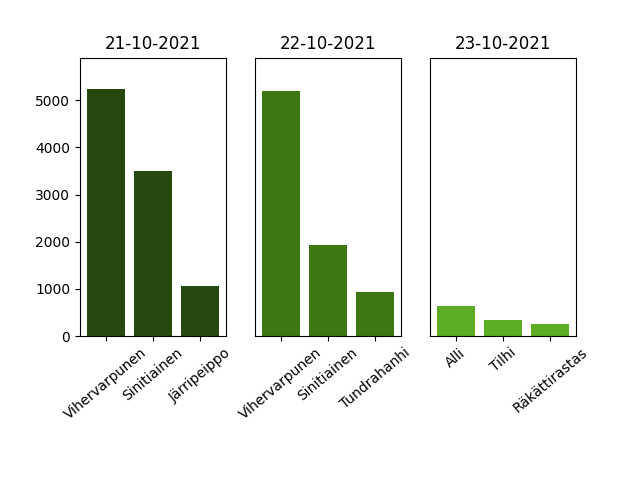
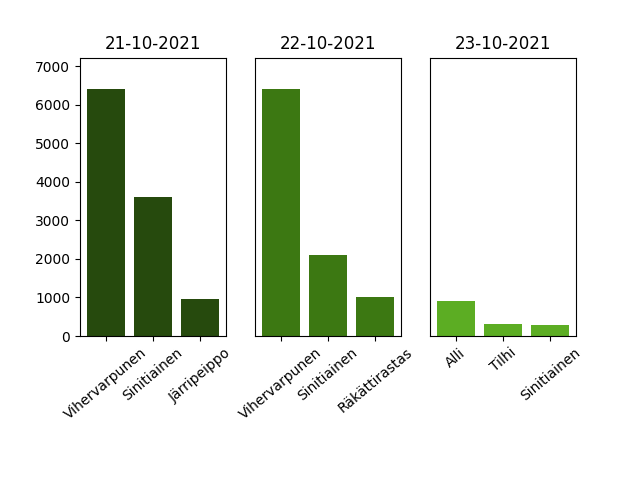
Fixing plot issues

diff --git a/templates/loading.html b/templates/loading.html
@@ -86,8 +86,8 @@
     <body>
         <div class="content">
             <h1 class="header"><i>Bird Forecast</i></h1>
-            Predicting birds! This might take a couple of minutes...
-            <div id="counter" style="display: block" id="counter">90</div>
+            <h4>Predicting birds! This might take a couple of minutes...</h4>
+            <h4 id="counter" style="display: block" id="counter">100</h4>
             <a href="/birdforecast" style="display: none; margin: auto;" id="redirect_button">
                 <button>Continue to app!</button>
             </a>

diff --git a/main.py b/main.py
@@ -17,6 +17,10 @@ templates = Jinja2Templates(directory="templates")
 favicon_path = "static/favicon.ico"
 app.mount("/static", StaticFiles(directory="static"), name="static")
 predictions = pd.DataFrame()
+translations = {}
+star_bins = []
+star_rating = 0
+bird_list = []
 
 
 def generate_default_plot(predictions, max_birds, max_count, translations):
@@ -60,8 +64,21 @@ def get_star_rating(predictions, star_bins):
             return i + 1
 
 def predict():
+    print("Predicting...")
     global predictions
+    global translations
+    global star_bins
+    global star_rating
+    global bird_list
     predictions = predict_birds().astype(int)
+    translations = translation_dict()
+    star_bins = get_star_bins()
+    star_rating = get_star_rating(predictions, star_bins)
+    max_birds = predictions.apply(lambda s: s.abs().nlargest(3).index.tolist(), axis=1)
+    max_count = predictions.max().max()
+    generate_all_plots(predictions, translations)
+    generate_default_plot(predictions, max_birds, max_count, translations)
+    bird_list = list(predictions.columns)
     print("Predicted.")
 
 
@@ -74,14 +91,9 @@ async def loading(request: Request, background_tasks: BackgroundTasks):
 @app.get("/birdforecast", response_class=HTMLResponse)
 async def root(request: Request):
     global predictions
-    star_bins = get_star_bins()
-    max_birds = predictions.apply(lambda s: s.abs().nlargest(3).index.tolist(), axis=1)
-    max_count = predictions.max().max()
-    translations = translation_dict()
-    bird_list = list(predictions.columns)
-    star_rating = get_star_rating(predictions, star_bins)
-    generate_all_plots(predictions, translations)
-    generate_default_plot(predictions, max_birds, max_count, translations)
+    global translations
+    global star_rating
+    global bird_list
     return templates.TemplateResponse("index.html", {"request": request,
                                                      "bird_number": predictions.shape[1],
                                                      "bird_list": bird_list,

diff --git a/forecast.py b/forecast.py
@@ -8,7 +8,7 @@ import numpy as np
 def get_hourly_forecast():
     start_time = dt.datetime.now()
     end_time = start_time + dt.timedelta(hours=58)
-    print("Getting weather forecast for", start_time.strftime("%d/%m/%Y, %H:%M"), "-", end_time.strftime("%d/%m/%Y, %H:%M"), "...\n")
+    # print("Getting weather forecast for", start_time.strftime("%d/%m/%Y, %H:%M"), "-", end_time.strftime("%d/%m/%Y, %H:%M"), "...\n")
 
     # The weather forecast is streamed from the FMI open data and seems to give info about the upcoming ~58 hours
     futuredata = download_stored_query("fmi::forecast::harmonie::surface::point::multipointcoverage",
